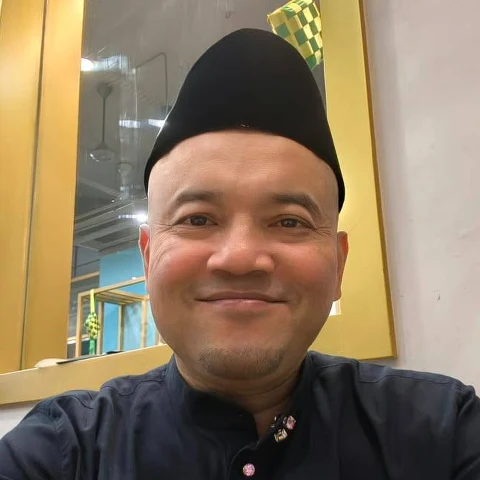
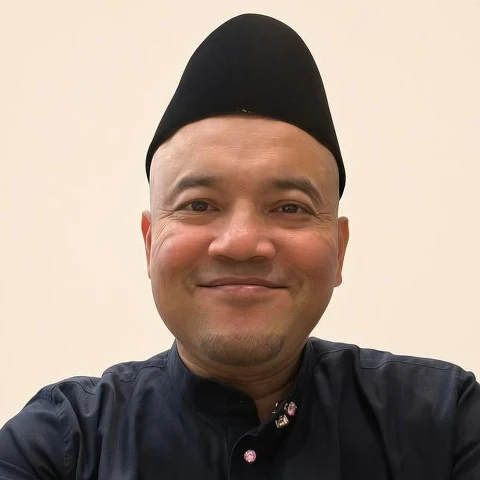
Jawatankuasa: gambar Dr Wan Noorasmara dengan latar baharu

diff --git a/en/about/index.html b/en/about/index.html
@@ -113,7 +113,7 @@
       </div>
       <div class="card">
         <h2>Executive Committee — Term 2026–2028</h2>
-        <div class="org-carta"><button class="gambar" type="button" data-besar="/assets/carta-organisasi-2026-2028.webp?v=baaed47a" data-kapsyen="Carta organisasi Pertubuhan Doktor Khatan Malaysia (MADOCS) sesi 2026–2028" aria-label="Organisational chart of the Malaysian Doctors of Circumcision Society (MADOCS), 2026–2028 term"><img src="/assets/carta-organisasi-2026-2028.webp?v=baaed47a" alt="Organisational chart of the Malaysian Doctors of Circumcision Society (MADOCS), 2026–2028 term" loading="lazy" decoding="async"></button><p class="nota-isi">Click the chart to view it full size. Source: official MADOCS organisational chart for the 2026–2028 term.</p></div><div class="org-grid"><div class="org-ahli"><span class="org-bulat"><img src="/assets/jawatankuasa/abdol-rashid.webp?v=6df184f1" alt="Dr. Abdol Rashid bin Masrom" loading="lazy" decoding="async"></span><b>Dr. Abdol Rashid bin Masrom</b><small>President</small></div><div class="org-ahli"><span class="org-bulat"><img src="/assets/jawatankuasa/norzaidi.webp?v=43833afc" alt="Dr. Norzaidi bin Zakaria" loading="lazy" decoding="async"></span><b>Dr. Norzaidi bin Zakaria</b><small>Vice President</small></div><div class="org-ahli"><span class="org-bulat"><img src="/assets/jawatankuasa/mohd-shafiz.webp?v=87297e07" alt="Dr. Mohd Shafiz bin Mohd Zaini" loading="lazy" decoding="async"></span><b>Dr. Mohd Shafiz bin Mohd Zaini</b><small>Secretary General</small></div><div class="org-ahli"><span class="org-bulat"><img src="/assets/jawatankuasa/azfar-hakim.webp?v=afbc307e" alt="Dr. Azfar Hakim bin Abdol Rashid" loading="lazy" decoding="async"></span><b>Dr. Azfar Hakim bin Abdol Rashid</b><small>Honorary Treasurer</small></div><div class="org-ahli"><span class="org-bulat"><img src="/assets/jawatankuasa/wan-noorasmara.webp?v=7cf73be0" alt="Dr. Wan Noorasmara bin Mohd Noor" loading="lazy" decoding="async"></span><b>Dr. Wan Noorasmara bin Mohd Noor</b><small>Assistant Secretary</small></div><div class="org-ahli"><span class="org-bulat"><img src="/assets/jawatankuasa/shalizan.webp?v=d36319ab" alt="Dr. Shalizan bin Torman" loading="lazy" decoding="async"></span><b>Dr. Shalizan bin Torman</b><small>Committee Member</small></div><div class="org-ahli"><span class="org-bulat"><img src="/assets/jawatankuasa/hasbi-harun.webp?v=8d7171b0" alt="Datuk Dr. Hj. Hasbi bin Harun" loading="lazy" decoding="async"></span><b>Datuk Dr. Hj. Hasbi bin Harun</b><small>Committee Member</small></div><div class="org-ahli"><span class="org-bulat"><img src="/assets/jawatankuasa/shazly.webp?v=43c06efd" alt="Dr. Shazly bin Safian" loading="lazy" decoding="async"></span><b>Dr. Shazly bin Safian</b><small>Committee Member</small></div><div class="org-ahli"><span class="org-bulat"><img src="/assets/jawatankuasa/cheng-wai-woo.webp?v=d94bb0e8" alt="Dr. Cheng Wai Woo" loading="lazy" decoding="async"></span><b>Dr. Cheng Wai Woo</b><small>Committee Member</small></div><div class="org-ahli"><span class="org-bulat"><img src="/assets/jawatankuasa/afif.webp?v=b6b7841a" alt="Dr. Afif bin Mohd Ridzwan" loading="lazy" decoding="async"></span><b>Dr. Afif bin Mohd Ridzwan</b><small>Committee Member</small></div><div class="org-ahli"><span class="org-bulat"><img src="/assets/jawatankuasa/mohd-andalas.webp?v=45f28c6a" alt="Dr. Mohd Andalas Putra bin Mohamed Ismail" loading="lazy" decoding="async"></span><b>Dr. Mohd Andalas Putra bin Mohamed Ismail</b><small>Committee Member</small></div><div class="org-ahli"><span class="org-bulat"><img src="/assets/jawatankuasa/muhammad-suhail.webp?v=1ce9536b" alt="Mej (Dr) Muhammad Suhail bin Satri (B)" loading="lazy" decoding="async"></span><b>Mej (Dr) Muhammad Suhail bin Satri (B)</b><small>Committee Member</small></div><div class="org-ahli"><span class="org-bulat"><img src="/assets/jawatankuasa/mohamad-saiful.webp?v=45262b5a" alt="Dr. Mohamad Saiful bin Mohd. Said" loading="lazy" decoding="async"></span><b>Dr. Mohamad Saiful bin Mohd. Said</b><small>Committee Member</small></div></div>
+        <div class="org-carta"><button class="gambar" type="button" data-besar="/assets/carta-organisasi-2026-2028.webp?v=baaed47a" data-kapsyen="Carta organisasi Pertubuhan Doktor Khatan Malaysia (MADOCS) sesi 2026–2028" aria-label="Organisational chart of the Malaysian Doctors of Circumcision Society (MADOCS), 2026–2028 term"><img src="/assets/carta-organisasi-2026-2028.webp?v=baaed47a" alt="Organisational chart of the Malaysian Doctors of Circumcision Society (MADOCS), 2026–2028 term" loading="lazy" decoding="async"></button><p class="nota-isi">Click the chart to view it full size. Source: official MADOCS organisational chart for the 2026–2028 term.</p></div><div class="org-grid"><div class="org-ahli"><span class="org-bulat"><img src="/assets/jawatankuasa/abdol-rashid.webp?v=6df184f1" alt="Dr. Abdol Rashid bin Masrom" loading="lazy" decoding="async"></span><b>Dr. Abdol Rashid bin Masrom</b><small>President</small></div><div class="org-ahli"><span class="org-bulat"><img src="/assets/jawatankuasa/norzaidi.webp?v=43833afc" alt="Dr. Norzaidi bin Zakaria" loading="lazy" decoding="async"></span><b>Dr. Norzaidi bin Zakaria</b><small>Vice President</small></div><div class="org-ahli"><span class="org-bulat"><img src="/assets/jawatankuasa/mohd-shafiz.webp?v=87297e07" alt="Dr. Mohd Shafiz bin Mohd Zaini" loading="lazy" decoding="async"></span><b>Dr. Mohd Shafiz bin Mohd Zaini</b><small>Secretary General</small></div><div class="org-ahli"><span class="org-bulat"><img src="/assets/jawatankuasa/azfar-hakim.webp?v=afbc307e" alt="Dr. Azfar Hakim bin Abdol Rashid" loading="lazy" decoding="async"></span><b>Dr. Azfar Hakim bin Abdol Rashid</b><small>Honorary Treasurer</small></div><div class="org-ahli"><span class="org-bulat"><img src="/assets/jawatankuasa/wan-noorasmara.webp?v=51e3dc32" alt="Dr. Wan Noorasmara bin Mohd Noor" loading="lazy" decoding="async"></span><b>Dr. Wan Noorasmara bin Mohd Noor</b><small>Assistant Secretary</small></div><div class="org-ahli"><span class="org-bulat"><img src="/assets/jawatankuasa/shalizan.webp?v=d36319ab" alt="Dr. Shalizan bin Torman" loading="lazy" decoding="async"></span><b>Dr. Shalizan bin Torman</b><small>Committee Member</small></div><div class="org-ahli"><span class="org-bulat"><img src="/assets/jawatankuasa/hasbi-harun.webp?v=8d7171b0" alt="Datuk Dr. Hj. Hasbi bin Harun" loading="lazy" decoding="async"></span><b>Datuk Dr. Hj. Hasbi bin Harun</b><small>Committee Member</small></div><div class="org-ahli"><span class="org-bulat"><img src="/assets/jawatankuasa/shazly.webp?v=43c06efd" alt="Dr. Shazly bin Safian" loading="lazy" decoding="async"></span><b>Dr. Shazly bin Safian</b><small>Committee Member</small></div><div class="org-ahli"><span class="org-bulat"><img src="/assets/jawatankuasa/cheng-wai-woo.webp?v=d94bb0e8" alt="Dr. Cheng Wai Woo" loading="lazy" decoding="async"></span><b>Dr. Cheng Wai Woo</b><small>Committee Member</small></div><div class="org-ahli"><span class="org-bulat"><img src="/assets/jawatankuasa/afif.webp?v=b6b7841a" alt="Dr. Afif bin Mohd Ridzwan" loading="lazy" decoding="async"></span><b>Dr. Afif bin Mohd Ridzwan</b><small>Committee Member</small></div><div class="org-ahli"><span class="org-bulat"><img src="/assets/jawatankuasa/mohd-andalas.webp?v=45f28c6a" alt="Dr. Mohd Andalas Putra bin Mohamed Ismail" loading="lazy" decoding="async"></span><b>Dr. Mohd Andalas Putra bin Mohamed Ismail</b><small>Committee Member</small></div><div class="org-ahli"><span class="org-bulat"><img src="/assets/jawatankuasa/muhammad-suhail.webp?v=1ce9536b" alt="Mej (Dr) Muhammad Suhail bin Satri (B)" loading="lazy" decoding="async"></span><b>Mej (Dr) Muhammad Suhail bin Satri (B)</b><small>Committee Member</small></div><div class="org-ahli"><span class="org-bulat"><img src="/assets/jawatankuasa/mohamad-saiful.webp?v=45262b5a" alt="Dr. Mohamad Saiful bin Mohd. Said" loading="lazy" decoding="async"></span><b>Dr. Mohamad Saiful bin Mohd. Said</b><small>Committee Member</small></div></div>
       </div>
     </div>
     <aside class="side">

diff --git a/tentang/index.html b/tentang/index.html
@@ -113,7 +113,7 @@
       </div>
       <div class="card">
         <h2>Jawatankuasa Eksekutif — Sesi 2026–2028</h2>
-        <div class="org-carta"><button class="gambar" type="button" data-besar="/assets/carta-organisasi-2026-2028.webp?v=baaed47a" data-kapsyen="Carta organisasi Pertubuhan Doktor Khatan Malaysia (MADOCS) sesi 2026–2028" aria-label="Carta organisasi Pertubuhan Doktor Khatan Malaysia (MADOCS) sesi 2026–2028"><img src="/assets/carta-organisasi-2026-2028.webp?v=baaed47a" alt="Carta organisasi Pertubuhan Doktor Khatan Malaysia (MADOCS) sesi 2026–2028" loading="lazy" decoding="async"></button><p class="nota-isi">Klik carta untuk melihat saiz penuh. Sumber: Carta organisasi rasmi MADOCS sesi 2026–2028.</p></div><div class="org-grid"><div class="org-ahli"><span class="org-bulat"><img src="/assets/jawatankuasa/abdol-rashid.webp?v=6df184f1" alt="Dr. Abdol Rashid bin Masrom" loading="lazy" decoding="async"></span><b>Dr. Abdol Rashid bin Masrom</b><small>Presiden</small></div><div class="org-ahli"><span class="org-bulat"><img src="/assets/jawatankuasa/norzaidi.webp?v=43833afc" alt="Dr. Norzaidi bin Zakaria" loading="lazy" decoding="async"></span><b>Dr. Norzaidi bin Zakaria</b><small>Naib Presiden</small></div><div class="org-ahli"><span class="org-bulat"><img src="/assets/jawatankuasa/mohd-shafiz.webp?v=87297e07" alt="Dr. Mohd Shafiz bin Mohd Zaini" loading="lazy" decoding="async"></span><b>Dr. Mohd Shafiz bin Mohd Zaini</b><small>Setiausaha Agung</small></div><div class="org-ahli"><span class="org-bulat"><img src="/assets/jawatankuasa/azfar-hakim.webp?v=afbc307e" alt="Dr. Azfar Hakim bin Abdol Rashid" loading="lazy" decoding="async"></span><b>Dr. Azfar Hakim bin Abdol Rashid</b><small>Bendahari Kehormat</small></div><div class="org-ahli"><span class="org-bulat"><img src="/assets/jawatankuasa/wan-noorasmara.webp?v=7cf73be0" alt="Dr. Wan Noorasmara bin Mohd Noor" loading="lazy" decoding="async"></span><b>Dr. Wan Noorasmara bin Mohd Noor</b><small>Penolong Setiausaha</small></div><div class="org-ahli"><span class="org-bulat"><img src="/assets/jawatankuasa/shalizan.webp?v=d36319ab" alt="Dr. Shalizan bin Torman" loading="lazy" decoding="async"></span><b>Dr. Shalizan bin Torman</b><small>Ahli Jawatankuasa</small></div><div class="org-ahli"><span class="org-bulat"><img src="/assets/jawatankuasa/hasbi-harun.webp?v=8d7171b0" alt="Datuk Dr. Hj. Hasbi bin Harun" loading="lazy" decoding="async"></span><b>Datuk Dr. Hj. Hasbi bin Harun</b><small>Ahli Jawatankuasa</small></div><div class="org-ahli"><span class="org-bulat"><img src="/assets/jawatankuasa/shazly.webp?v=43c06efd" alt="Dr. Shazly bin Safian" loading="lazy" decoding="async"></span><b>Dr. Shazly bin Safian</b><small>Ahli Jawatankuasa</small></div><div class="org-ahli"><span class="org-bulat"><img src="/assets/jawatankuasa/cheng-wai-woo.webp?v=d94bb0e8" alt="Dr. Cheng Wai Woo" loading="lazy" decoding="async"></span><b>Dr. Cheng Wai Woo</b><small>Ahli Jawatankuasa</small></div><div class="org-ahli"><span class="org-bulat"><img src="/assets/jawatankuasa/afif.webp?v=b6b7841a" alt="Dr. Afif bin Mohd Ridzwan" loading="lazy" decoding="async"></span><b>Dr. Afif bin Mohd Ridzwan</b><small>Ahli Jawatankuasa</small></div><div class="org-ahli"><span class="org-bulat"><img src="/assets/jawatankuasa/mohd-andalas.webp?v=45f28c6a" alt="Dr. Mohd Andalas Putra bin Mohamed Ismail" loading="lazy" decoding="async"></span><b>Dr. Mohd Andalas Putra bin Mohamed Ismail</b><small>Ahli Jawatankuasa</small></div><div class="org-ahli"><span class="org-bulat"><img src="/assets/jawatankuasa/muhammad-suhail.webp?v=1ce9536b" alt="Mej (Dr) Muhammad Suhail bin Satri (B)" loading="lazy" decoding="async"></span><b>Mej (Dr) Muhammad Suhail bin Satri (B)</b><small>Ahli Jawatankuasa</small></div><div class="org-ahli"><span class="org-bulat"><img src="/assets/jawatankuasa/mohamad-saiful.webp?v=45262b5a" alt="Dr. Mohamad Saiful bin Mohd. Said" loading="lazy" decoding="async"></span><b>Dr. Mohamad Saiful bin Mohd. Said</b><small>Ahli Jawatankuasa</small></div></div>
+        <div class="org-carta"><button class="gambar" type="button" data-besar="/assets/carta-organisasi-2026-2028.webp?v=baaed47a" data-kapsyen="Carta organisasi Pertubuhan Doktor Khatan Malaysia (MADOCS) sesi 2026–2028" aria-label="Carta organisasi Pertubuhan Doktor Khatan Malaysia (MADOCS) sesi 2026–2028"><img src="/assets/carta-organisasi-2026-2028.webp?v=baaed47a" alt="Carta organisasi Pertubuhan Doktor Khatan Malaysia (MADOCS) sesi 2026–2028" loading="lazy" decoding="async"></button><p class="nota-isi">Klik carta untuk melihat saiz penuh. Sumber: Carta organisasi rasmi MADOCS sesi 2026–2028.</p></div><div class="org-grid"><div class="org-ahli"><span class="org-bulat"><img src="/assets/jawatankuasa/abdol-rashid.webp?v=6df184f1" alt="Dr. Abdol Rashid bin Masrom" loading="lazy" decoding="async"></span><b>Dr. Abdol Rashid bin Masrom</b><small>Presiden</small></div><div class="org-ahli"><span class="org-bulat"><img src="/assets/jawatankuasa/norzaidi.webp?v=43833afc" alt="Dr. Norzaidi bin Zakaria" loading="lazy" decoding="async"></span><b>Dr. Norzaidi bin Zakaria</b><small>Naib Presiden</small></div><div class="org-ahli"><span class="org-bulat"><img src="/assets/jawatankuasa/mohd-shafiz.webp?v=87297e07" alt="Dr. Mohd Shafiz bin Mohd Zaini" loading="lazy" decoding="async"></span><b>Dr. Mohd Shafiz bin Mohd Zaini</b><small>Setiausaha Agung</small></div><div class="org-ahli"><span class="org-bulat"><img src="/assets/jawatankuasa/azfar-hakim.webp?v=afbc307e" alt="Dr. Azfar Hakim bin Abdol Rashid" loading="lazy" decoding="async"></span><b>Dr. Azfar Hakim bin Abdol Rashid</b><small>Bendahari Kehormat</small></div><div class="org-ahli"><span class="org-bulat"><img src="/assets/jawatankuasa/wan-noorasmara.webp?v=51e3dc32" alt="Dr. Wan Noorasmara bin Mohd Noor" loading="lazy" decoding="async"></span><b>Dr. Wan Noorasmara bin Mohd Noor</b><small>Penolong Setiausaha</small></div><div class="org-ahli"><span class="org-bulat"><img src="/assets/jawatankuasa/shalizan.webp?v=d36319ab" alt="Dr. Shalizan bin Torman" loading="lazy" decoding="async"></span><b>Dr. Shalizan bin Torman</b><small>Ahli Jawatankuasa</small></div><div class="org-ahli"><span class="org-bulat"><img src="/assets/jawatankuasa/hasbi-harun.webp?v=8d7171b0" alt="Datuk Dr. Hj. Hasbi bin Harun" loading="lazy" decoding="async"></span><b>Datuk Dr. Hj. Hasbi bin Harun</b><small>Ahli Jawatankuasa</small></div><div class="org-ahli"><span class="org-bulat"><img src="/assets/jawatankuasa/shazly.webp?v=43c06efd" alt="Dr. Shazly bin Safian" loading="lazy" decoding="async"></span><b>Dr. Shazly bin Safian</b><small>Ahli Jawatankuasa</small></div><div class="org-ahli"><span class="org-bulat"><img src="/assets/jawatankuasa/cheng-wai-woo.webp?v=d94bb0e8" alt="Dr. Cheng Wai Woo" loading="lazy" decoding="async"></span><b>Dr. Cheng Wai Woo</b><small>Ahli Jawatankuasa</small></div><div class="org-ahli"><span class="org-bulat"><img src="/assets/jawatankuasa/afif.webp?v=b6b7841a" alt="Dr. Afif bin Mohd Ridzwan" loading="lazy" decoding="async"></span><b>Dr. Afif bin Mohd Ridzwan</b><small>Ahli Jawatankuasa</small></div><div class="org-ahli"><span class="org-bulat"><img src="/assets/jawatankuasa/mohd-andalas.webp?v=45f28c6a" alt="Dr. Mohd Andalas Putra bin Mohamed Ismail" loading="lazy" decoding="async"></span><b>Dr. Mohd Andalas Putra bin Mohamed Ismail</b><small>Ahli Jawatankuasa</small></div><div class="org-ahli"><span class="org-bulat"><img src="/assets/jawatankuasa/muhammad-suhail.webp?v=1ce9536b" alt="Mej (Dr) Muhammad Suhail bin Satri (B)" loading="lazy" decoding="async"></span><b>Mej (Dr) Muhammad Suhail bin Satri (B)</b><small>Ahli Jawatankuasa</small></div><div class="org-ahli"><span class="org-bulat"><img src="/assets/jawatankuasa/mohamad-saiful.webp?v=45262b5a" alt="Dr. Mohamad Saiful bin Mohd. Said" loading="lazy" decoding="async"></span><b>Dr. Mohamad Saiful bin Mohd. Said</b><small>Ahli Jawatankuasa</small></div></div>
       </div>
     </div>
     <aside class="side">
